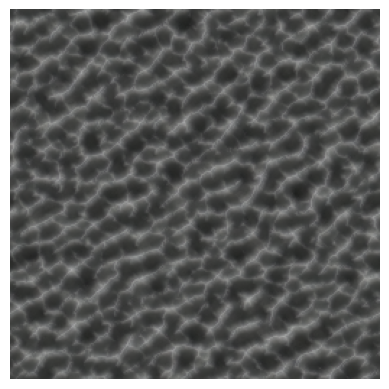
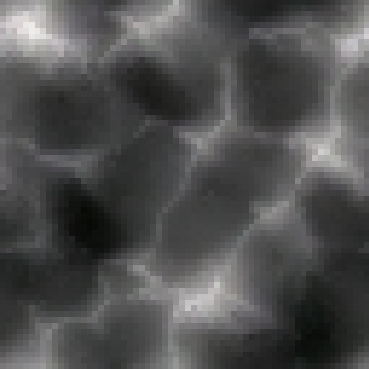
bug fix

diff --git a/test.py b/test.py
@@ -3,7 +3,7 @@ from matplotlib import pyplot as plt
 import time
 from DP.NCA.gen_heightmaps import gen_hightmap
 
-grid_size = 3
+grid_size = 1
 
 map = [None for i in range(grid_size*grid_size)]
 
@@ -17,7 +17,7 @@ for i in range(grid_size):
             index = (i-1) * grid_size + (j-1)
             seed[2] = map[index]
         now = time.time()
-        uploaded_file = gen_hightmap("Chunk Perlin",seed, res=64, numSteps=14,steps=5, seed_size=32)
+        uploaded_file = gen_hightmap("Perlin",seed, res=128, numSteps=14,steps=5, seed_size=32)
         delta = time.time() - now
         print(delta)
         seed[0] = uploaded_file
@@ -34,6 +34,6 @@ full_image = np.vstack(rows)
 
 plt.imshow(full_image, cmap='gray')
 plt.axis('off')
-plt.savefig("singleImage3.png", bbox_inches='tight', pad_inches=0)
+plt.savefig("compare.png", bbox_inches='tight', pad_inches=0)
 plt.show()
 
